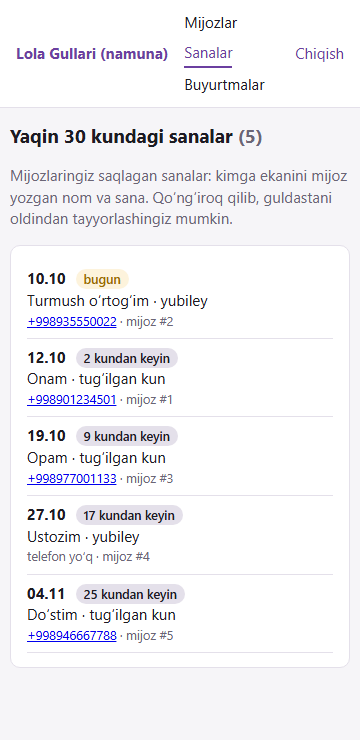
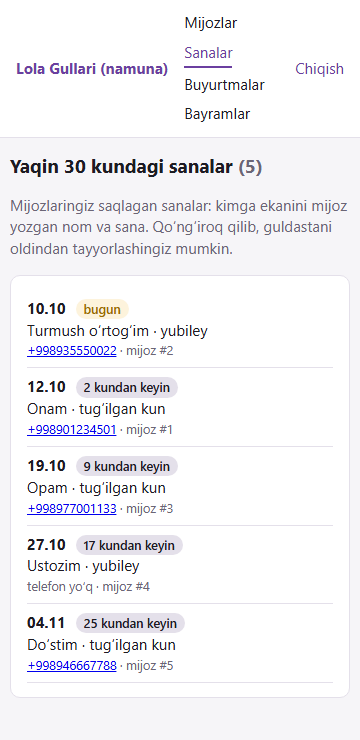
CP20 docs: guarantees, decisions, mutation totals, and the shop screens at 360 px
CHECKPOINTS: the CP20 row and 'What CP20 guarantees' -- the /shop panel
(one shop per session, every route walked with another shop's data
planted) and holiday campaigns (three conditions, one planner, immediate
stop) -- with their decisions, what was found while building, and
mutation totals (20/20 + 18/18). DEPLOY: head 8f2d6c41b9a3, the two new
downgrades (the holiday one changes data), /shop -> 401 in the outside
checks, and /shop never behind the /admin allow-list.
docs/screenshots/shop: the holidays screen added; all taken by the real
page server on a throwaway database of synthetic data, then dropped.

Changed region(s): [[0.0306, 0.1243, 0.9778, 0.9324], [0.0306, 0.0622, 0.4889, 0.1243], [0.825, 0.0622, 0.9778, 0.1243]]

diff --git a/docs/CHECKPOINTS.md b/docs/CHECKPOINTS.md
@@ -31,6 +31,7 @@ product on its own: reminders work with no catalog and no ordering.
 | CP17 | Date plans, Uzrnoma, editable invitations, photos, sections, wishes, seal, music, ten more designs | done, one commit per stage, live-proven locally; going live needs the same domain + HTTPS as CP16 |
 | CP18 | Platform admin panel (/admin), pause, subscriptions, order source, gift unlock, moderation, photo purge, health + heartbeats | done, one commit per stage; live-proven locally except the platform bot's Telegram delivery (needs PLATFORM_BOT_TOKEN) |
 | CP19 | Brand name in one setting, staff allowlist for order decisions, dev scripts under the gate, the two flaky tests | done, one commit per item; code-only (nothing here needed a live bot) |
+| CP20 | The shop owner's own panel (/shop), holiday campaigns | done, one commit per feature; code-only, screens shot at 360 px on a throwaway database |
 
 CP10 replaces the old CP10–CP13 block. The order FSM, the single-flight submit
 guard and the one-message-per-order shop card are one deliverable; splitting
@@ -1174,6 +1175,87 @@ and the test_concurrency section's CP19 entry.
 | 1 brand | 13/13 |
 | 2 staff allowlist | 21/21 |
 | 4 lock hold | 2/2 |
+
+## What CP20 guarantees
+
+Two features a shop pays for. Code-only again: proved by tests, mutations and
+screens rendered by the real page server at 360 px against a throwaway
+database of synthetic data (`docs/screenshots/shop/`), then dropped.
+
+**A shop owner's panel that sees one shop and nothing else (`/shop`).**
+- The way in mirrors `/admin`, bound to one shop: `/panel` in THAT shop's
+  bot, from one of its owners, answers with a one-time link (10 minutes, one
+  use, preview off, at most 5 per 10 minutes). Opening it shows a button;
+  only the POST spends it. Cookie HttpOnly, Secure, SameSite=Strict,
+  Path=/shop, one hour. Ownership is checked at minting, at spending and on
+  every request; removing an owner ends their sessions at once.
+- `/panel` is answered by an update middleware ahead of the pause check and
+  the customer middleware: a paused shop's owner still gets in, and an owner
+  asking for the panel is never registered as a customer. Anyone else's
+  `/panel` passes through untouched.
+- ONE gate for every `/shop` route; every POST needs the session's CSRF
+  token. NO ROUTE TAKES A SHOP: every screen reads the session's shop, and
+  the test walks every route as shop A's owner with shop B's data planted --
+  also with `?shop=<B>` -- and finds none of it.
+- Customers (phones in full: they are the shop's own), saved dates in the
+  next 30 days, orders filtered by status, source and dates, CSV exports
+  (audit-logged, formula cells neutralised). The log (`shop_audit_log`) is
+  append-only by trigger.
+
+**Holiday campaigns.** Three conditions, all required: the shop runs the
+holiday (`/shop/holidays`), the customer opted in (Settings, "Bayram
+tabriklari"; `consent_events`, default off), and for a lunar holiday the
+platform admin entered that year's date (`/admin/holidays`). A holiday is one
+more date in the same per-customer plan (a stable negative spec id in the
+pure engine), so the send window, merging and the weekly cap cover it with no
+second copy of any rule; its rows go through the existing outbox. Opting out
+or switching a holiday off drops what was planned at once. An order from the
+holiday's bouquet button is `source = holiday`.
+
+### Decisions made during CP20, each with its reason
+
+- **`/panel` lives in the shop's bot, as a middleware.** Only that bot knows
+  which shop is asking, and a router handler would run after the customer
+  middleware had already registered the owner as a customer.
+- **The CRM shows full phone numbers; `/admin` masks them.** These are the
+  shop's own customers, whom it calls; the platform admin is a third party
+  to them.
+- **Saved dates show the customer's own label and the date only.** Nothing
+  else about the person is stored, and the panel adds nothing.
+- **The panel is in Uzbek**, like `/admin`; bot texts keep their languages.
+- **New Year is 31 December.** The evening people buy flowers for, not the
+  morning after.
+- **Holidays use the customer's own offsets and send time.** The same
+  preference that governs their personal reminders; no second setting.
+- **A tie for "soonest line" goes to the person.** A merged reminder whose
+  earliest line is a birthday keeps the person's button; the date the
+  customer saved outranks the shop's campaign.
+- **A new callback prefix for holiday orders**, not a field on OrderStartCB:
+  reminder buttons already in customers' chats keep their shape.
+- **The new CHECKs on `scheduled_notifications` were added validated**, not
+  in CONTRIBUTING's NOT VALID / VALIDATE steps: existing rows satisfy them
+  trivially and no production database exists yet (DEPLOY has never been
+  run), so there is no table to lock.
+- **Owner-facing CRM routes are not IP-restricted** (DEPLOY step 9): shop
+  owners log in from their own phones.
+
+### Found while building, each fixed and tested
+
+- **A message of only whitespace crashed the `/panel` check** --
+  `split()[0]` on nothing -- in front of every handler, for every customer.
+  The order-flow tests type blank answers on purpose and found it; it has
+  its own commit and test.
+- **"Planned, then pruned in the same run" hid a mutant.** Planning
+  holidays for everyone was invisible because the same materialize run's
+  prune deleted the rows again; the test now pins what the run inserted,
+  not only what remains.
+
+**Mutation totals, all caught on assertions:**
+
+| Feature | Mutants |
+|---|---|
+| 1 shop panel | 20/20 (+1 judged equivalent: the orders query's shop WHERE, behind its JOIN to the shop's own customers) |
+| 2 holiday campaigns | 18/18 |
 
 ## Briefs already agreed for future checkpoints
 

diff --git a/docs/DEPLOY.md b/docs/DEPLOY.md
@@ -150,9 +150,9 @@ sudo -u gulbot bash -c 'set -a; . /etc/gulbot/gulbot.env; set +a; \
   .venv/bin/alembic upgrade head && .venv/bin/alembic current && .venv/bin/alembic heads'
 ```
 
-`current` and `heads` must print the same revision (`0956590ccce1` at CP19).
+`current` and `heads` must print the same revision (`8f2d6c41b9a3` at CP20).
 **A report of "applied" is not evidence** -- on this project it has been wrong
-twice; read it here. Every migration is additive. Four DOWNGRADES change data,
+twice; read it here. Every migration is additive. Five DOWNGRADES change data,
 because the old CHECKs cannot hold it -- back up before ever going below them:
 
 | Below | What the downgrade does |
@@ -160,7 +160,8 @@ because the old CHECKs cannot hold it -- back up before ever going below them:
 | `360f0694be06` | English-speaking customers become Uzbek |
 | `c5a8e2d61f37` | Uzrnoma pages are deleted |
 | `b996b9032869` | purged photo rows are deleted |
-| `4b6e1d9c2a07`, the CP18 revisions and `0956590ccce1` | their columns and tables are dropped (CP19: every shop's staff list) |
+| `4b6e1d9c2a07`, the CP18 revisions, `0956590ccce1`, `3c8e5a1f7d20` | their columns and tables are dropped (CP19: every shop's staff list; CP20: the shop panel's logins and audit log) |
+| `8f2d6c41b9a3` | holiday reminder rows and holiday consent are deleted, holiday orders lose their source |
 
 ## 8. The processes
 
@@ -188,9 +189,10 @@ Check each one's log (`journalctl -u gulbot-bot -n 50`):
 
 Copy `deploy/Caddyfile` to `/etc/caddy/Caddyfile`, put your hostname in, and
 `systemctl reload caddy`. Caddy obtains and renews the certificate itself. The
-pages and `/admin` share the one hostname. **Do not add a `log` directive**
-(see the file). Recommended: uncomment the block that lets only your own IP
-addresses reach `/admin` at all.
+pages, `/admin` and the shop owners' `/shop` (CP20) share the one hostname.
+**Do not add a `log` directive** (see the file). Recommended: uncomment the
+block that lets only your own IP addresses reach `/admin` at all. Never put
+`/shop` behind that allow-list: shop owners log in from their own phones.
 
 ## 10. Verify from outside the server
 
@@ -199,7 +201,7 @@ addresses reach `/admin` at all.
   `Strict-Transport-Security`.
 - `curl https://pages.<domain>/healthz/jobs` -> `ok` once the worker has run
   for two minutes (`stale: ...` names any job that is not finishing).
-- `curl -I https://pages.<domain>/admin` -> 401.
+- `curl -I https://pages.<domain>/admin` -> 401, and `/shop` -> 401 too.
 - On a phone: `/demo/yesno`, `/demo/invite`, `/demo/apology/konvert`.
 - In the pilot shop's bot: make a Ha/Yo'q page. The reply carries **Ochish**
   and **Ulashish** buttons (https only). Open it, press Ha: the "they said Ha"
